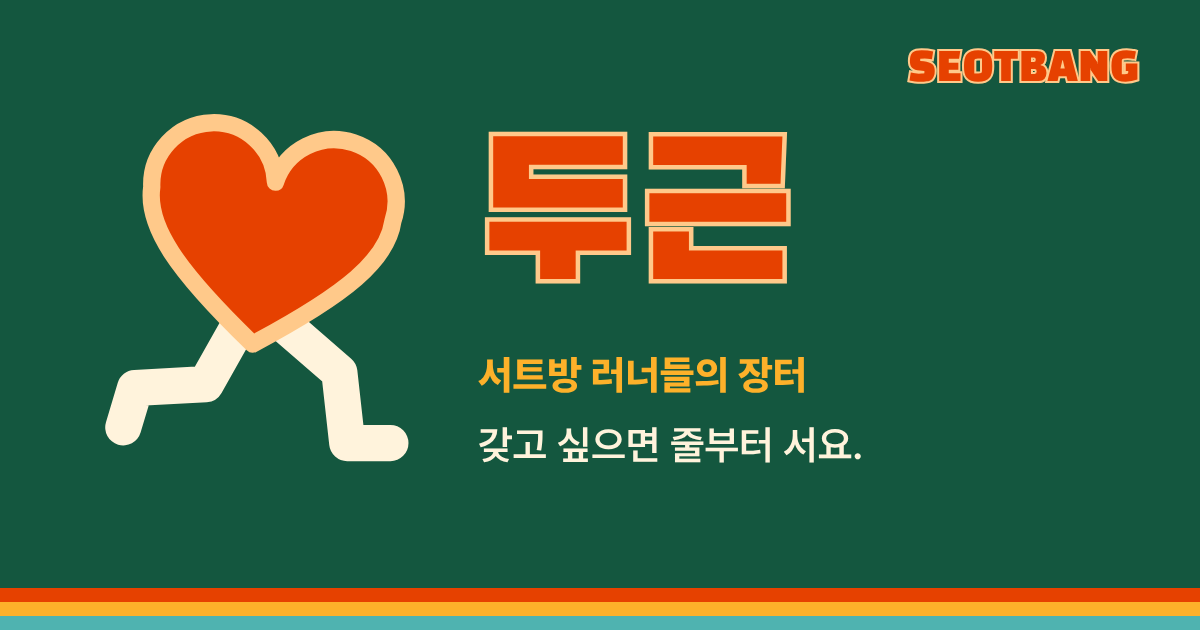
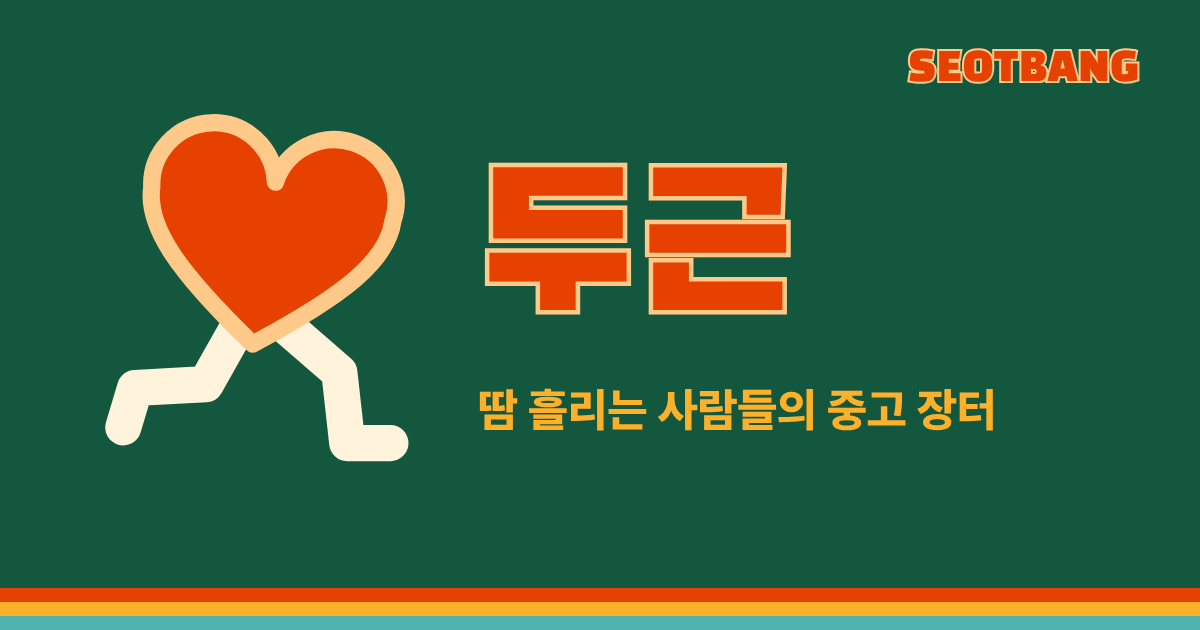
두근 문구·카테고리 변경, 서트방 인스타·오픈카톡 바로가기, 경매 픽토그램 서서 손든 모습
Claude-Session: https://claude.ai/code/session_01Hf36mZYbY74zHfW7ii1CDP

Changed region(s): [[0.4008, 0.181, 0.6783, 0.5127], [0.4008, 0.5429, 0.8325, 0.754]]

diff --git a/app.js b/app.js
@@ -457,6 +457,12 @@ const HOWTO = `
   </ol>`;
 
 // 첫 화면: 가입(또는 이어서 하기) + 빙고/두근 두 갈래. 두 갈래는 가입 없이도 들어가 볼 수 있다.
+// 서트방 인스타그램·오픈카톡방 바로가기 (첫 화면과 푸터에 같이 씀)
+const SOCIAL = `<p class="social">
+  <a href="https://www.instagram.com/seotbang/" target="_blank" rel="noopener"><svg viewBox="0 0 24 24" aria-hidden="true"><path d="M4 8.500h3l1.500-2.500h7L17 8.500h3v10.500H4z"/><circle cx="12" cy="13.500" r="3.200"/></svg>서트방 인스타그램</a>
+  <a href="https://open.kakao.com/o/gTYM7Tqh" target="_blank" rel="noopener"><svg viewBox="0 0 24 24" aria-hidden="true"><path d="M4 5h16v11h-8.500L7 20v-4H4z"/><path d="M8.500 10.500h7"/></svg>서트방 오픈카톡방</a>
+</p>`.replace(/\.500/g, ".5").replace(/\.200/g, ".2");
+
 function doorsHtml() {
   const open = state.items.filter(i => i.status !== "done").length;
   const mine = state.me ? score(state.me.id) : null;
@@ -468,10 +474,11 @@ function doorsHtml() {
     </a>
     <a class="door" href="#/dugeun">
       <span class="door-art">${BEAT}</span>
-      <span class="door-body"><b>두근</b><span>서트방 러너들의 장터. 갖고 싶으면 줄부터 서요.</span>
+      <span class="door-body"><b>두근</b><span>땀 흘리는 사람들의 중고 장터</span>
       <em>거래 중인 물건 ${open}개</em></span>
     </a>
-  </nav>`;
+  </nav>
+  ${SOCIAL}`;
 }
 
 function viewHome() {
@@ -811,7 +818,7 @@ function bindMembers(app) {
 }
 
 /* ---------- 두근 (장터) ---------- */
-const CATS = ["신발", "의류", "가방·조끼", "장비", "시계·전자기기", "보급·영양", "기타"];
+const CATS = ["운동화", "운동복", "가방·조끼", "장비·용품", "시계·전자기기", "보급·영양", "기타"];
 const ITEM_STATUS = { open: "판매 중", reserved: "예약 중", done: "거래 완료" };
 const won = n => (n === 0 ? "나눔" : n.toLocaleString("ko-KR") + "원");
 const nickOf = id => (state.players.find(p => p.id === id) || {}).nickname || "?";
@@ -821,7 +828,7 @@ const PIN = '<svg class="pin" viewBox="0 0 16 16" aria-hidden="true"><path d="M8
 // 달리는 사람 픽토그램 (줄 앞쪽인 왼쪽을 보고 달림)
 const RUNNER = '<svg class="runner" viewBox="0 0 32 36" aria-hidden="true"><g transform="translate(32 0) scale(-1 1)"><circle cx="20.500" cy="5.500" r="3.800"/><path d="M18 11.500L14 21M18 12l5.500 3 3-3.500M17 12.500l-5.500.500-2.500 4M14 21l6.500 3-1 8M14 21l-4.500 5.500H3.500"/></g></svg>'.replace(/\.500/g, ".5").replace(/\.800/g, ".8");
 // 한 손을 든 사람 픽토그램 (경매)
-const RAISER = '<svg class="runner" viewBox="0 0 32 36" aria-hidden="true"><circle cx="15" cy="7" r="3.800"/><path d="M15 13v10.500M15 14.500l5.500-3.500 1-7.500M15 14.500l-4.500 5.500M15 23.500l-3.500 10M15 23.500l4 10"/></svg>'.replace(/\.500/g, ".5").replace(/\.800/g, ".8");
+const RAISER = '<svg class="runner" viewBox="0 0 32 36" aria-hidden="true"><circle cx="15" cy="6.500" r="3.800"/><path d="M15 13v10.500M15 14l5.500-2.500V3M15 14l-4.500 2.500V23M13 23.500V34M17 23.500V34"/></svg>'.replace(/\.500/g, ".5").replace(/\.800/g, ".8");
 const SHARE = '<svg class="ic-share" viewBox="0 0 24 24" aria-hidden="true"><path d="M12 15V3.500M7.500 7.500L12 3l4.500 4.500M5 12v7.500h14V12"/></svg>'.replace(/\.500/g, ".5");
 const needLogin = () => { toast("먼저 가입해 주세요. 가입하면 빙고와 두근을 같이 써요.", true); location.hash = "#/"; };
 
@@ -840,7 +847,7 @@ function viewDugeun() {
     <section class="dg-head">
       <div>
         <h1>${BEAT}두근</h1>
-        <p class="lede">서트방 러너들의 장터. 갖고 싶으면 줄부터 서요.</p>
+        <p class="lede">땀 흘리는 사람들의 중고 장터</p>
       </div>
       <button type="button" class="btn" id="dg-new">물건 올리기</button>
     </section>
@@ -1025,7 +1032,7 @@ function openItemForm() {
       <h2>물건 올리기</h2>
       <label class="pick"><input type="file" accept="image/*" id="it-file"><span>사진 고르기</span></label>
       <img class="proof" id="it-prev" alt="고른 사진 미리보기" hidden>
-      <label class="field">물건 이름<input name="title" maxlength="40" placeholder="예: 트레일화 270mm" autocomplete="off"></label>
+      <label class="field">물건 이름<input name="title" maxlength="40" placeholder="예: 러닝화 270mm, 요가 매트" autocomplete="off"></label>
       <label class="field">카테고리<select name="category"><option value="">골라 주세요</option>${CATS.map(c => `<option>${esc(c)}</option>`).join("")}</select></label>
       <fieldset class="modes">
         <legend>파는 방식</legend>
@@ -1034,7 +1041,7 @@ function openItemForm() {
       </fieldset>
       <label class="field"><span id="price-label">가격</span><span class="price-in"><input name="price" inputmode="numeric" maxlength="11" placeholder="0" autocomplete="off"><span>원</span></span></label>
       <label class="check" id="free-wrap"><input type="checkbox" name="free"> 나눔으로 올리기</label>
-      <label class="field">수령처<input name="pickup" maxlength="60" placeholder="예: 토요일 모닝벙, 월드컵경기장 트랙" autocomplete="off"></label>
+      <label class="field">수령처<input name="pickup" maxlength="60" placeholder="예: 주말 운동 모임, 월드컵경기장" autocomplete="off"></label>
       <label class="field">설명<textarea name="description" maxlength="500" rows="4" placeholder="상태, 사이즈, 산 시기 같은 걸 적어 주세요"></textarea></label>
       <button class="btn" id="it-go">올리기</button>
     </form>`;

diff --git a/dugeun/index.html b/dugeun/index.html
@@ -3,12 +3,12 @@
 <head>
 <meta charset="utf-8">
 <meta name="viewport" content="width=device-width, initial-scale=1">
-<title>두근, 서트방 러너들의 장터</title>
-<meta name="description" content="갖고 싶으면 줄부터 서요. 줄 세우기와 경매로 사고팔아요.">
+<title>두근, 땀 흘리는 사람들의 중고 장터</title>
+<meta name="description" content="줄 세우기와 경매로 사고팔아요.">
 <meta property="og:type" content="website">
 <meta property="og:url" content="https://spacehwi.github.io/seotbang/dugeun/">
-<meta property="og:title" content="두근, 서트방 러너들의 장터">
-<meta property="og:description" content="갖고 싶으면 줄부터 서요. 줄 세우기와 경매로 사고팔아요.">
+<meta property="og:title" content="두근, 땀 흘리는 사람들의 중고 장터">
+<meta property="og:description" content="줄 세우기와 경매로 사고팔아요.">
 <meta property="og:image" content="https://spacehwi.github.io/seotbang/assets/og-dugeun.png">
 <meta property="og:image:width" content="1200">
 <meta property="og:image:height" content="630">

diff --git a/style.css b/style.css
@@ -439,3 +439,10 @@ textarea { resize: vertical; }
 
 #it-share { display: flex; align-items: center; justify-content: center; gap: .5rem; }
 .ic-share { width: 1.125rem; height: 1.125rem; fill: none; stroke: currentColor; stroke-width: 2; stroke-linecap: round; stroke-linejoin: round; }
+
+/* 서트방 바로가기 */
+.social { display: flex; flex-wrap: wrap; justify-content: center; gap: .5rem; margin: 1.5rem 0 0; }
+.social a { display: inline-flex; align-items: center; gap: .4rem; padding: .45rem .8rem; border-radius: 999px; box-shadow: inset 0 0 0 1.5px rgba(255,243,220,.6); color: var(--cream); text-decoration: none; font-weight: 600; font-size: .875rem; }
+.social a:hover { background: rgba(255,243,220,.14); }
+.social svg { width: 1.125rem; height: 1.125rem; fill: none; stroke: currentColor; stroke-width: 1.8; stroke-linecap: round; stroke-linejoin: round; }
+.foot .social { margin: 0 0 1rem; }

diff --git a/index.html b/index.html
@@ -74,6 +74,10 @@
 <main id="app"><p class="loading">불러오는 중…</p></main>
 
 <footer class="foot">
+  <p class="social">
+    <a href="https://www.instagram.com/seotbang/" target="_blank" rel="noopener"><svg viewBox="0 0 24 24" aria-hidden="true"><path d="M4 8.5h3l1.5-2.5h7L17 8.5h3v10.5H4z"/><circle cx="12" cy="13.5" r="3.2"/></svg>서트방 인스타그램</a>
+    <a href="https://open.kakao.com/o/gTYM7Tqh" target="_blank" rel="noopener"><svg viewBox="0 0 24 24" aria-hidden="true"><path d="M4 5h16v11h-8.5L7 20v-4H4z"/><path d="M8.5 10.5h7"/></svg>서트방 오픈카톡방</a>
+  </p>
   <p>Copyright © 2026 SEOTBANG. All rights reserved.</p>
   <p>Built by <a href="https://www.instagram.com/spacehwi/" target="_blank" rel="noopener">@spacehwi</a></p>
 </footer>
